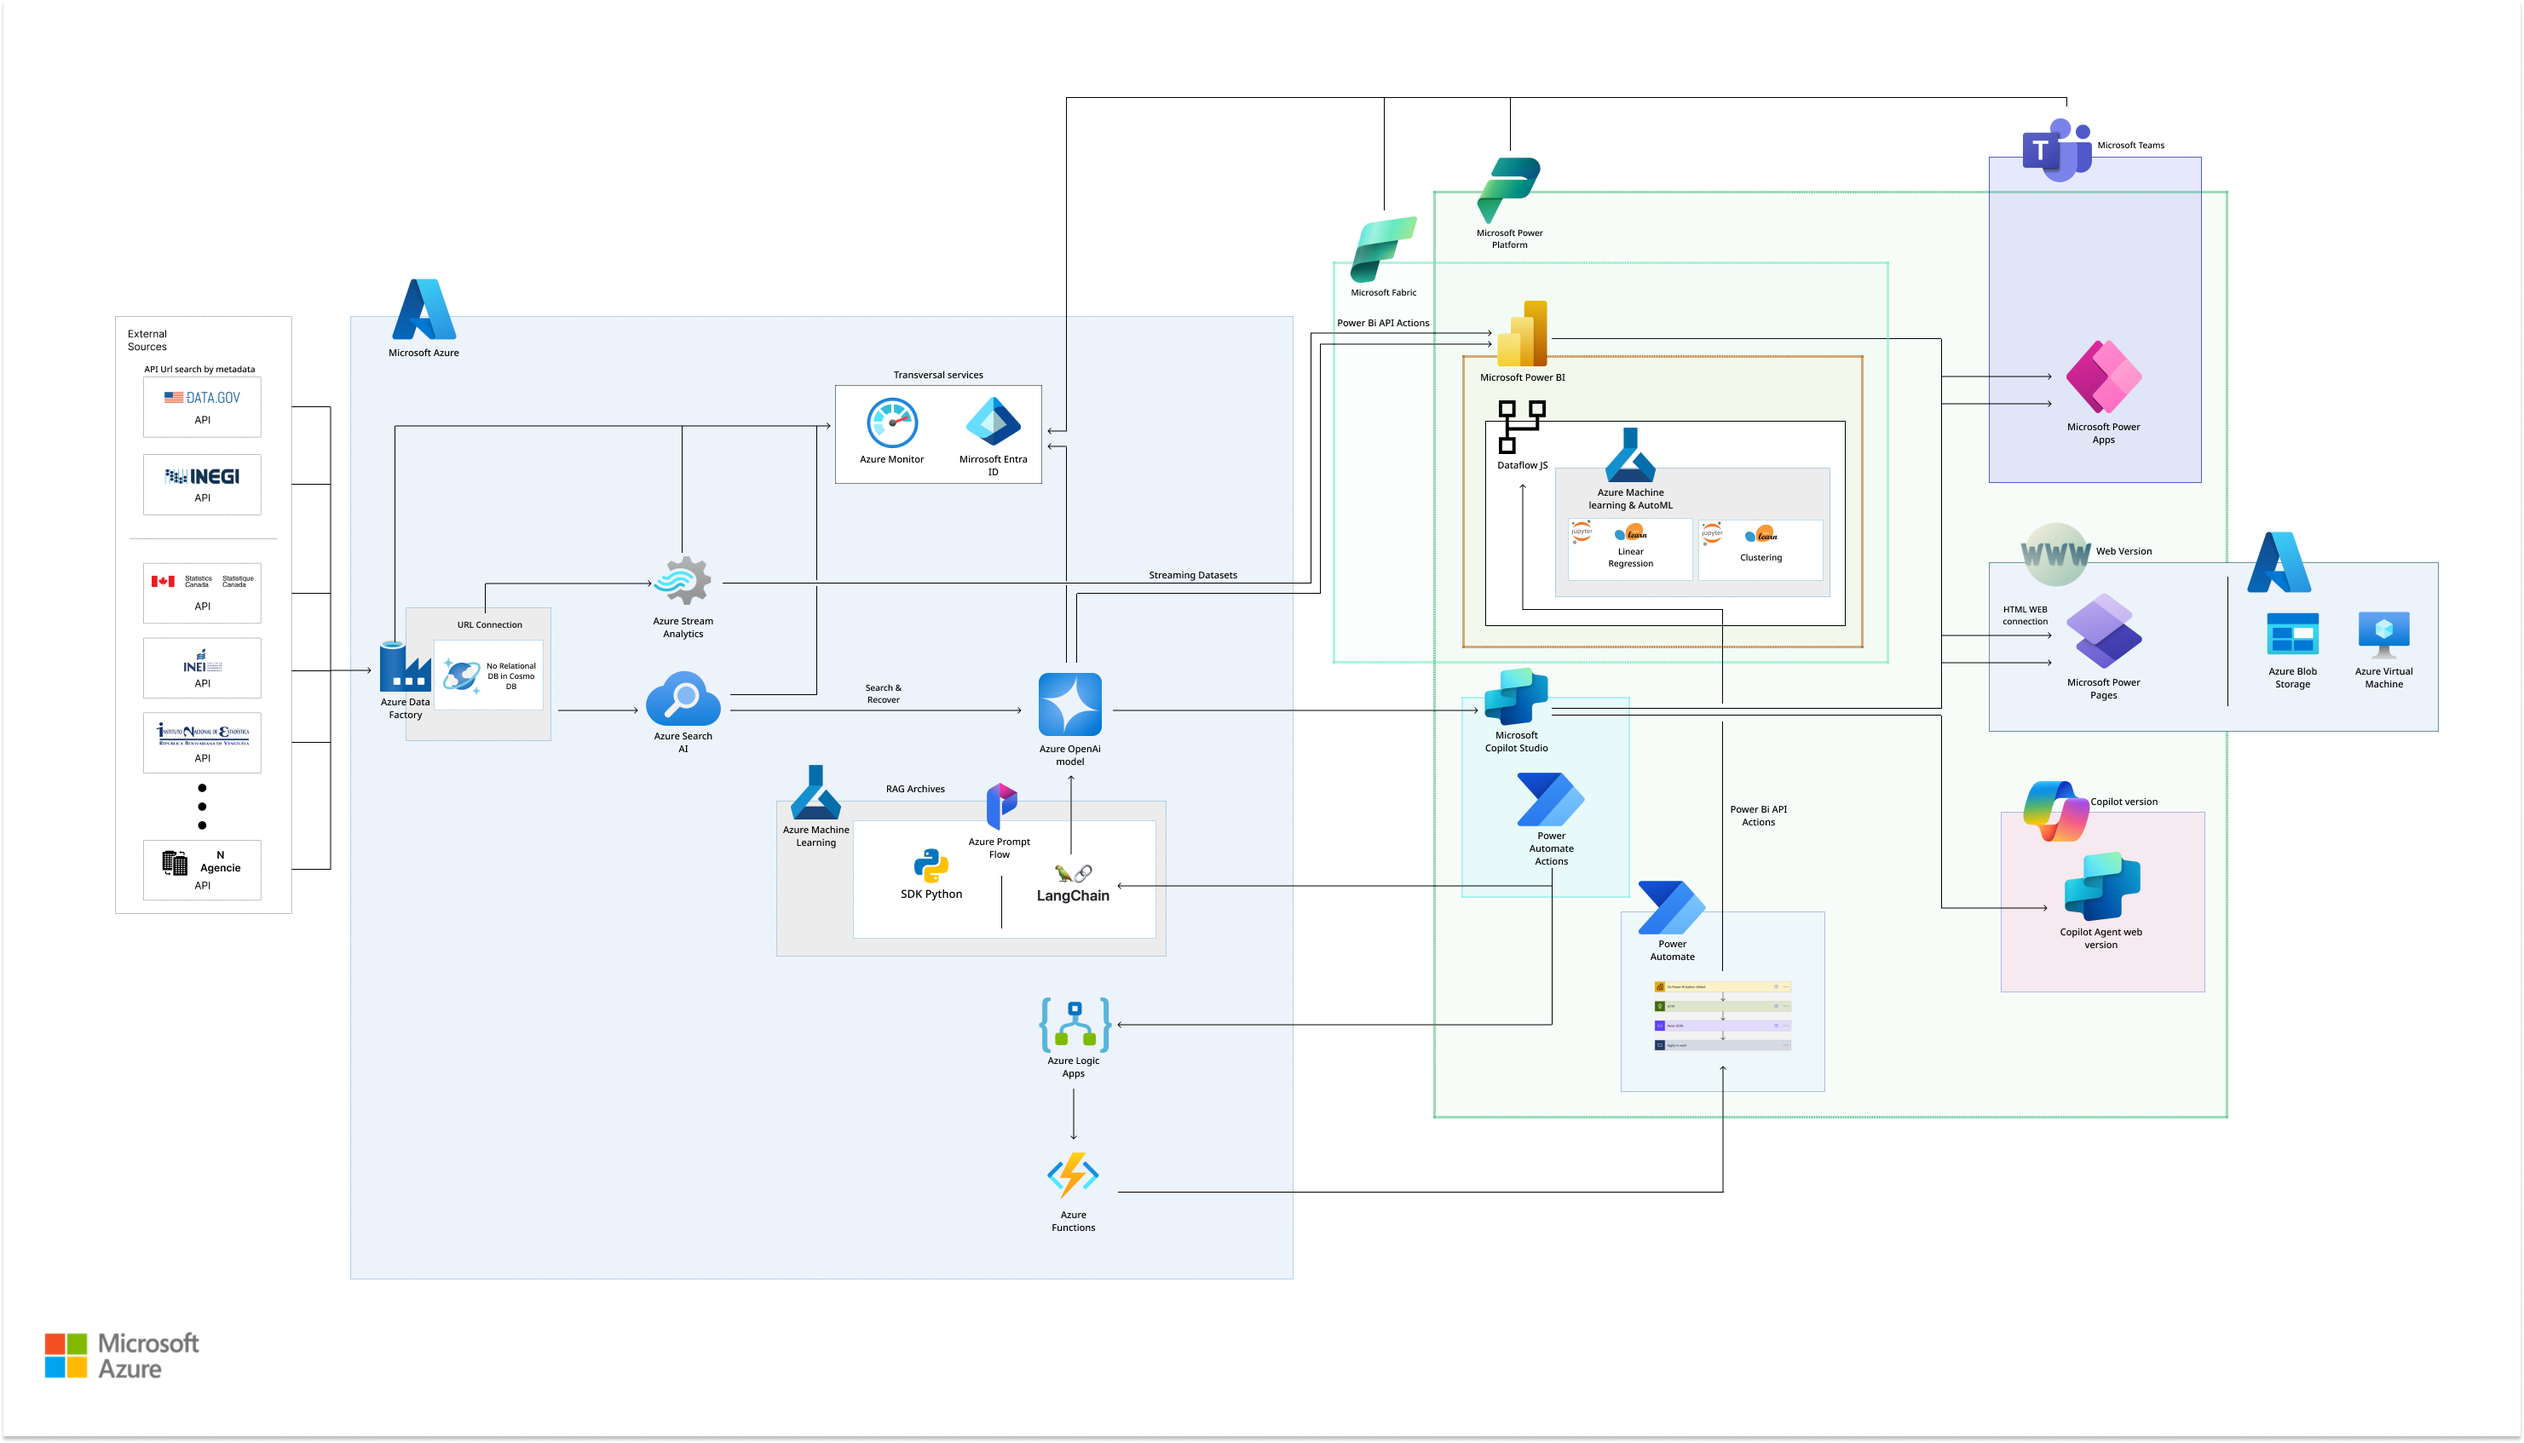
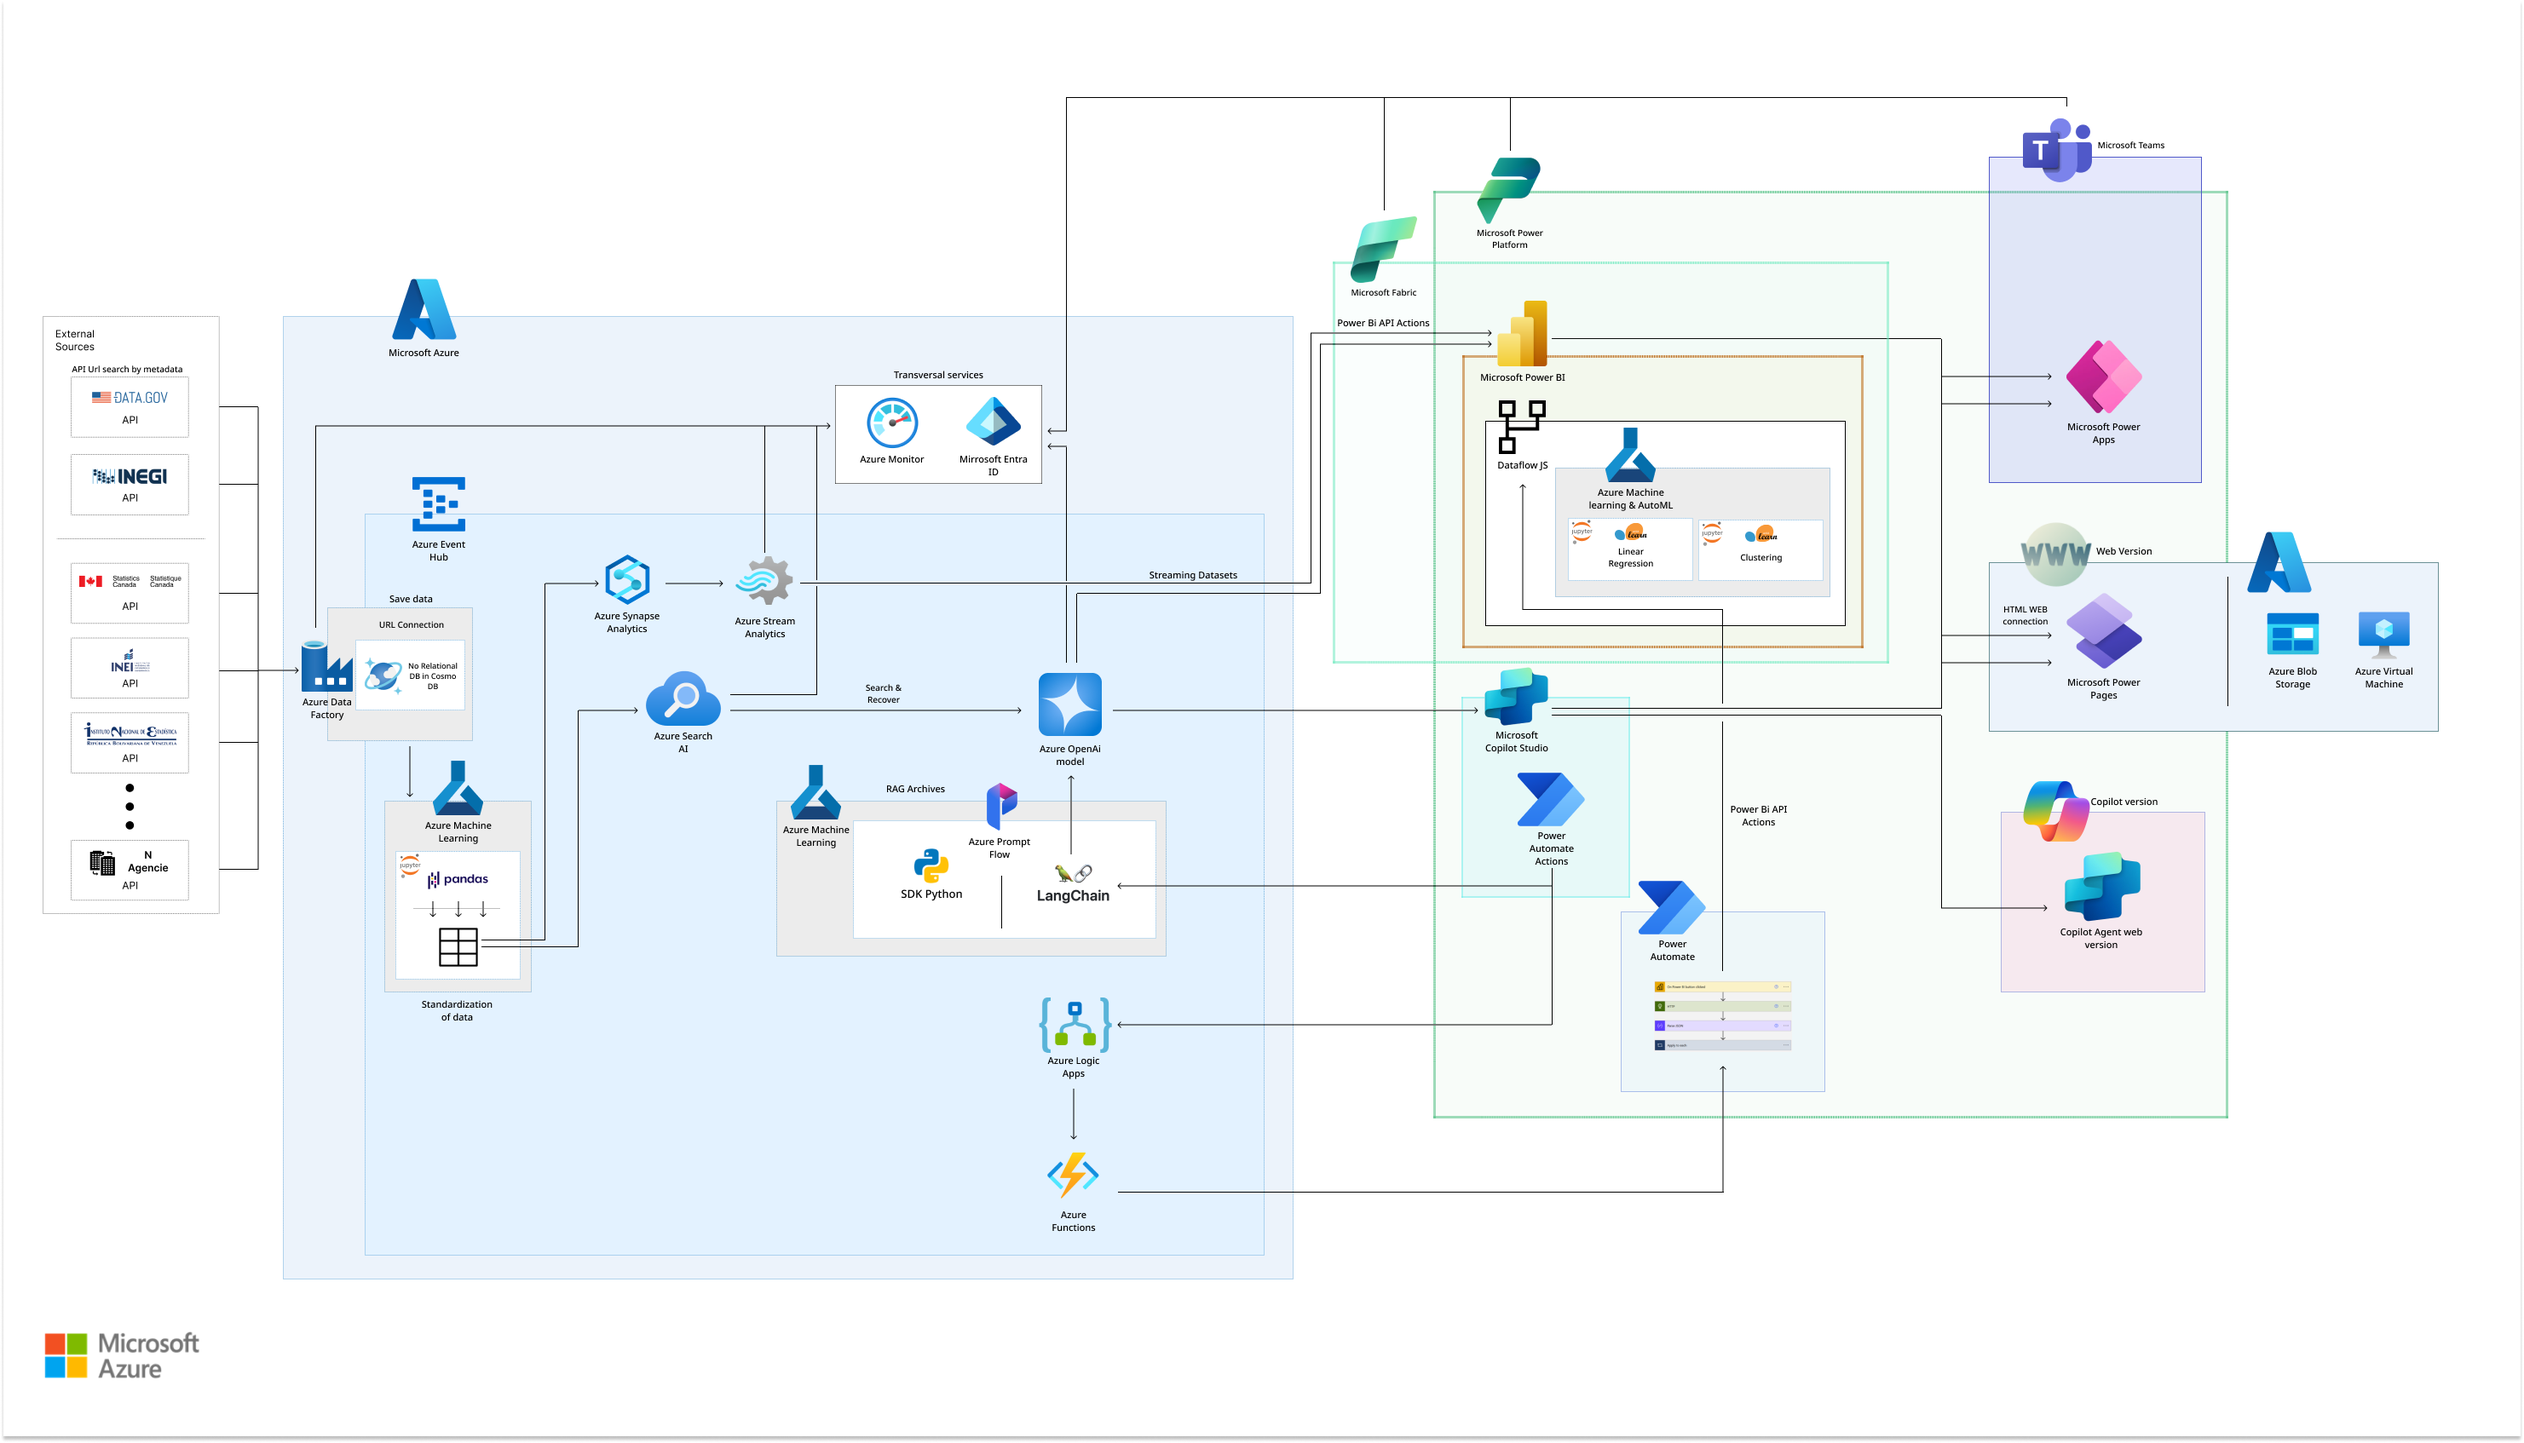
Updated diagram. Added bicep and Jupyter

diff --git a/README-es.md b/README-es.md
@@ -8,7 +8,7 @@ Esta solución fue desarrollada para el desafío ejecutivo 'Hack for Cross Agenc
 
 Inspirada en el ciclo de vida de un diente de león, nuestra plataforma transforma diversas fuentes de datos en informes y visualizaciones informativas, al igual que un diente de león transforma el agua en una hermosa flor que puede reproducirse a través del aire. 🍃
 
-Con Datadelion, las agencias gubernamentales pueden aprovechar el poder de los datos para tomar decisiones informadas, impulsar la innovación y, en última instancia, mejorar la vida de los ciudadanos, funcionando como un puente entre países utilizando la tecnología como enlace.
+Con Dandelion Hub, las agencias gubernamentales pueden aprovechar el poder de los datos para tomar decisiones informadas, impulsar la innovación y, en última instancia, mejorar la vida de los ciudadanos, funcionando como un puente entre países utilizando la tecnología como enlace.
 
 Nuestra plataforma permite una integración de datos sin interrupciones, análisis avanzados y un intercambio de información seguro, empoderando a las agencias para florecer y difundir su conocimiento como semillas de diente de león en el viento. Permitiendo a todos acceder a los datos desde cualquier lugar en una sola plataforma. 🗺
 

diff --git a/README.md b/README.md
@@ -8,7 +8,7 @@ This solution was developed for the 'Hack for Cross Agency Knowledge Management'
 
 Inspired by the life cycle of a dandelion, our platform transforms diverse data sources into insightful reports and visualizations, much like a dandelion transforms water into a beautiful bloom that can reproduce trought the air. 🍃
 
-With Datadelion, government agencies can harness the power of data to make informed decisions, drive innovation, and ultimately improve the lives of citizens, works as a bridge between countries using technology as the link.
+With Dandelion Hub, government agencies can harness the power of data to make informed decisions, drive innovation, and ultimately improve the lives of citizens, works as a bridge between countries using technology as the link.
 
 Our platform enables seamless data integration, advanced analytics, and secure information sharing, empowering agencies to flourish and spread their knowledge like dandelion seeds in the wind. Letting everyone to reach data from everywhere in one platform. 🗺
 
